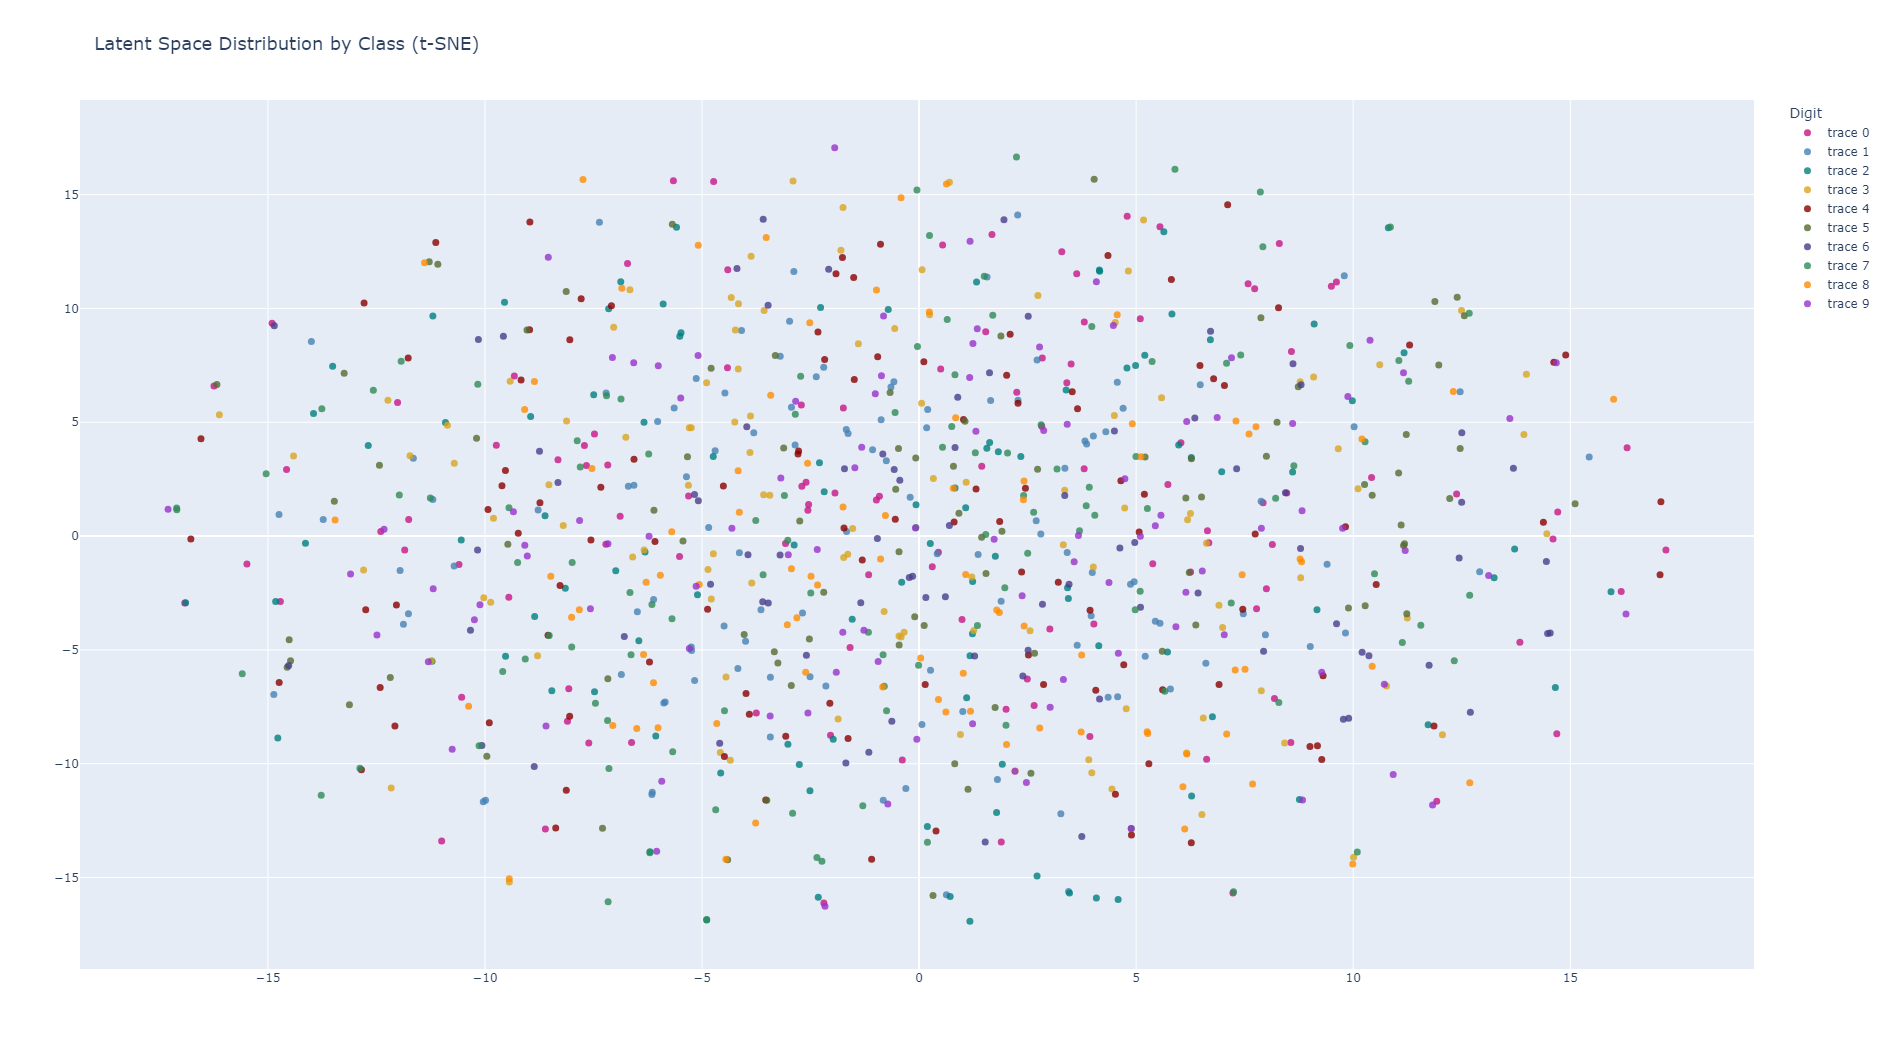
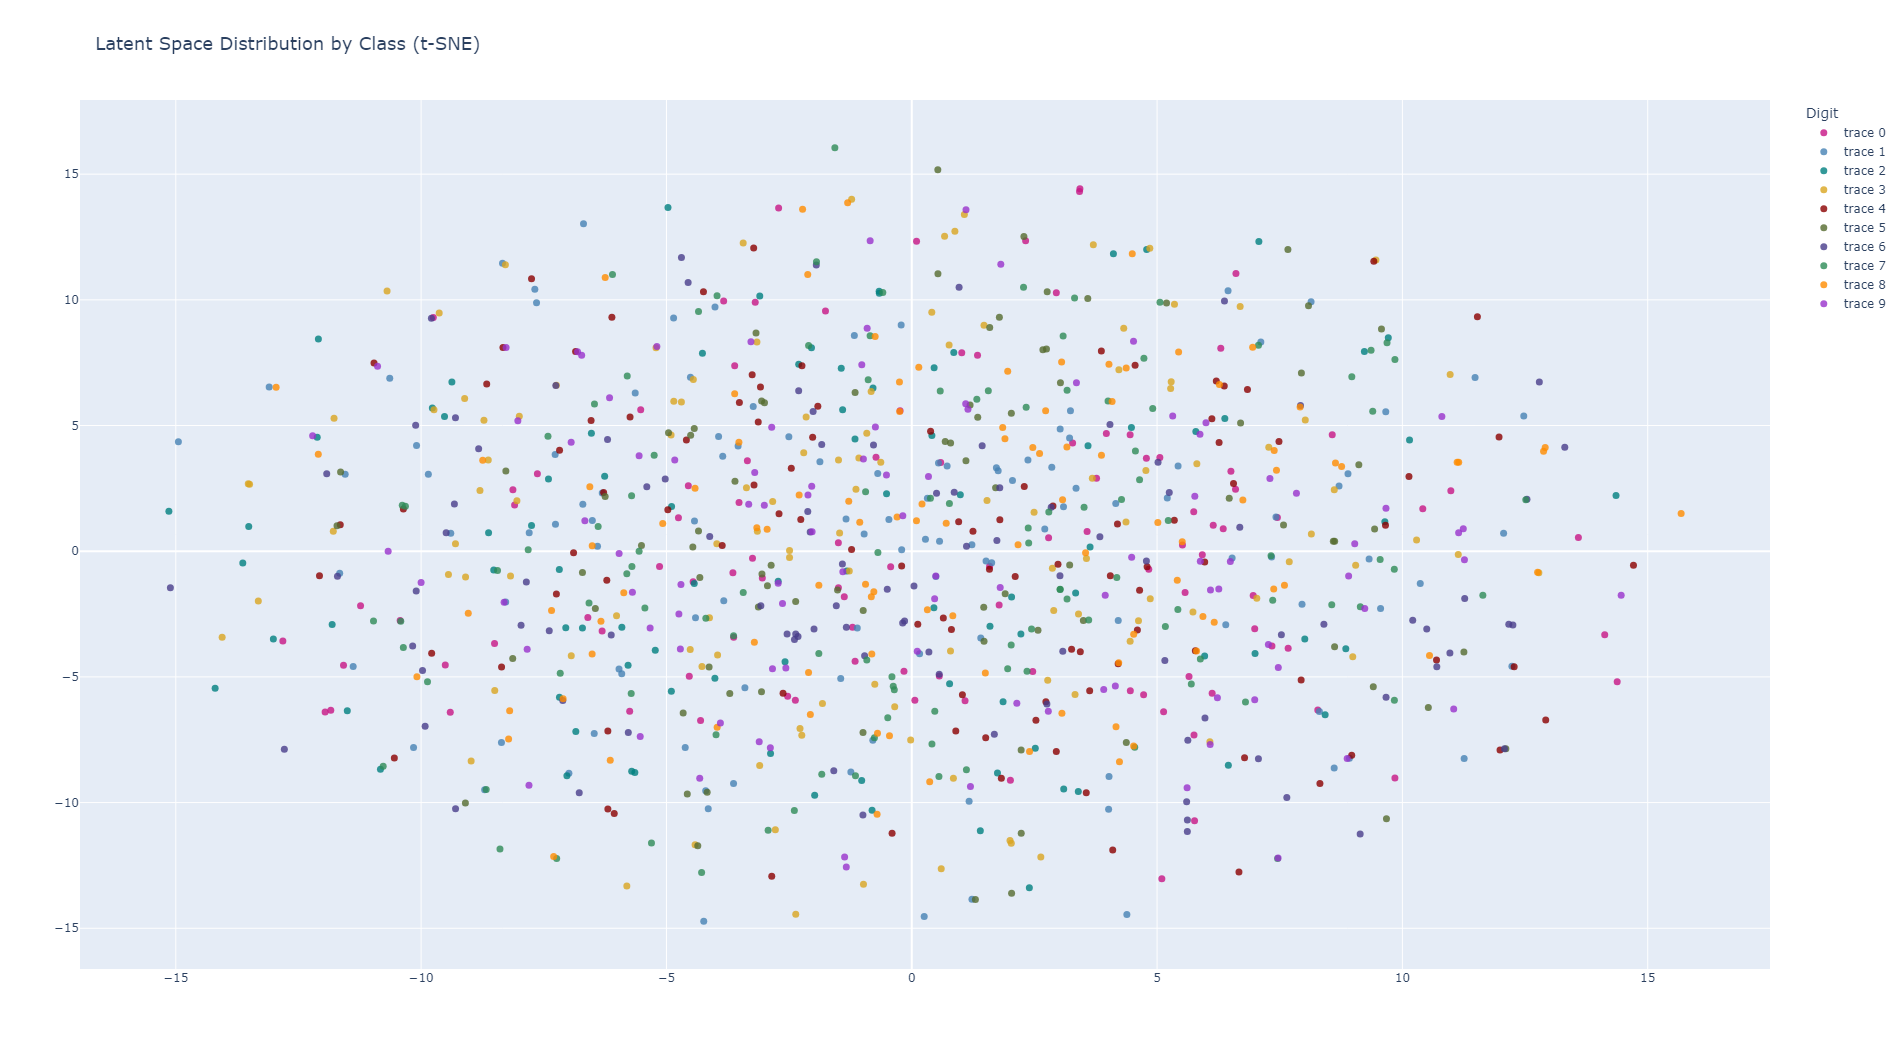
update to AE architectures

diff --git a/paper/paper.md b/paper/paper.md
@@ -24,7 +24,7 @@ Consider a scenario where two researchers, Researcher 1 and Researcher 2, collab
 Using LGC, Researcher 1 can compress their dataset $D$ into a compressed representation $D'$. This compressed representation can be transmitted over the network to Researcher 2 with minimal bandwidth overhead. Researcher 2 can then decompress $D'$ and use it to train their model $M'$, with the additional benefit that only a similar distribution to the original, but not the exact original data points, can be reconstructed.
 
 
-Our contribution is that we implement several variants of LGC with different autoencoder architectures (vanilla AE, VAE, contrastive) and compare these approaches against a baseline submodular maximization approach using gradient space K-Medoids for coreset selection. We discover a trade-off between compression factor and classifier accuracy and integrate our empirical findings within the broader Information Bottleneck (IB) theoretical framework.
+Our contribution is that we implement several variants of LGC with different autoencoder architectures (vanilla AE, VAE, conditional VAE, with and without contrastive learning) and compare these approaches against a baseline submodular maximization approach using gradient space K-Medoids for coreset selection. We discover a trade-off between compression factor and classifier accuracy and integrate our empirical findings within the broader Information Bottleneck (IB) theoretical framework.
 
 ## 2. Related Work
 
@@ -59,7 +59,7 @@ The vanilla and variant autoencoder architectures that were experimented with fo
 
 - **Vanilla Autoencoder:**
   - The vanilla autoencoder is the baseline version of autoencoder that consists of the basic encoder and decoder components that respectively transform the higher-dimensional input images into lower-dimensional representations. Starting with the MNIST dataset, which are 28 by 28 greyscale (single channel dimension) images, the encoder flattens the input into a 784 dimensional vector and then runs the vector through two dimensional reducing linear layers with rectified linear unit (ReLU) activation functions to transform the image into a 64 dimension latent space vector. The decoder reverses the process by taking in the 64 dimensional latent space vectors and dimensionally increases the image back to its 784 dimensional vector before being reshaped back to its 28 by 28 pixel image.
-  - The mean squared error (MSE) reconstruction loss is used to train the model such that the averaged squared errors between the reconstructed image and the original image is minimized.
+  - The mean squared error (MSE) reconstruction loss is used to train the model such that the averaged squared errors between the reconstructed image and the original image is minimized. For the autoencoder this is the only loss function that is being minimized.
   $$MSE = \frac{1}{n}\sum_{i=1}^{n} (y_i - \hat{y_i})^2$$
   - t-Distributed Stochastic Neighbor Embedding (tSNE) is a dimensional reduction technique that attempts to preserve higher dimensional structure in a lower dimension typically for visualization. The tSNE plot below is a 2-dimensional visualization of the 64-dimensional latent vectors of the 10 classes of the MNIST dataset color-coded by class. It can seen that the encoder is transforming examples of the same class in roughly similar locations in latent space, while placing examples from different classes in different locations in latent space. This plot gives the intution of the latent encodings of different classes that the GMM is attempting to decompose into multiple gaussian distributions.
 
@@ -67,9 +67,8 @@ The vanilla and variant autoencoder architectures that were experimented with fo
 
 - **Variational Autoencoder (VAE)**
   - The variational autoencoder (VAE) is a probabilistic extension of the vanilla autoencoder (AE) that replaces the determinstic functionality of the encoder and decoder of an AE with probability distributions. The AE compresses a single image into a latent representation, and then reconstructs an image from that latent. The VAE takes a single image and learns a continuous probability distribution for its latent representation. This probability distribution is modeled as a normal distribution characterized by means and covariances with dimensions that of the latent dimension. Two neural networks comprise the encoder, where one learns how to represent the means of input images and the other learns how to represent the covariances of the input images. Knowing the mean and covariance of a normal distribution allows the distribution to be known entirely, so when an image is encoded by its means and covariances, it is encoded as a latent space probability distribution. To decode the image from its latent, a random sample can be drawn from the distribution that has mean and covariance determined by the neural networks applied to that image. The sample will then get passed through two more sets of neural networks that will map the latent into normal distributions of what the images look like. Similar to the encoder, the decoder is comprised of two neural networks, one which takes the sampled latent representation and determines its means in image space, and the other which determines its covariances in image space. These determined means and covariances describe the image space probability distribution of the latent, from which a random sample can be drawn to return a reconstructed image.
-  - The loss function for the VAE involves defining an Evidence Lower Bound (ELBO) that allows for the probabilistic terms of the image space distribution to be defined as a Kullback-Leibler (KL) divergence. Because the image space distribution is intractable and unable to be written down, it needs to be approximated by the the latent space distribution, such that minimizing the KL divergence term tightens the ELBO, which allows it to more closely approximate the log likelihood, which is equivalent to minimizing the mean squared error of the reconstructed image. A trick is needed to back propagate through the sampling operation, called the Reparameterization trick, which allows for a random sampling of noise from a unit gaussian to be multiplied by the covariance and added to the mean of the determined latent probability distribution. This allows for the sampling operation to be performed while introducing the arithmetic operations into the computational graph needed to compute gradients through the neural networks. Below is the KL divergence term that measures the difference between the approximate posterior $q(z|x)$, which is the conditional distribution of the latents z given an image x, and the prior $p(z)$, which is the assumed unit Gaussian distribution over latents z prior to seeing any data. $$KL(q(z|x)||p(z)) = \int{q(z|x)log\frac{q(z|x)}{p(z)}dz}$$ When the approximate posterior $q(z|x)$ is parameterized as a Guassian distribution, $\mathcal{N}(\mu_\phi, \Sigma_\phi)$ with the mean and covariances determined by the encoder, the KL divergence can be represented by the closed-form solution: $$KL(q(z|x)||p(z)) = \frac{1}{2}\sum_{i=1}^d(\Sigma_i + \mu_i^2 - 1 - log\Sigma_i)$$
-  - Below is the tSNE plot that shows the encoder representing the images of every class as a normal gaussian distribution, where every image is encoded to have its own unique latent z values. The z values for any image are continuous and can take on any value in latent space, and are defined by the mean and covariances learned for that image by the encoder. The scattered nature of the latents of different classes is the result of the KL divergence term pulling all the latents given an image, $q(z|x)$, closer to the assumed unit Gaussian distribution, $p(z)$.
-  ![w:500 center](../pics/VAE/vae_tsne2.png)
+  - The loss function for the VAE involves defining an Evidence Lower Bound (ELBO) that allows for the probabilistic terms of the image space distribution to be defined as a Kullback-Leibler (KL) divergence. Because the image space distribution is intractable and unable to be written down, it needs to be approximated by the the latent space distribution, such that minimizing the KL divergence term tightens the ELBO, which allows it to more closely approximate the log likelihood, which is equivalent to minimizing the mean squared error of the reconstructed image. This allows an explicit loss function to be derived which can be optimized. A trick is needed to back propagate through the sampling operation, called the Reparameterization trick, which allows for a random sampling of noise from a unit Gaussian to be multiplied by the covariance and added to the mean of the determined latent probability distribution. This allows for the sampling operation to be performed while introducing arithmetic operations into the computational graph needed to compute gradients through the neural networks. Below is the KL divergence term that measures the difference between the approximate posterior $q(z|x)$, which is the conditional distribution of the latents z given an image x, and the prior $p(z)$, which is the assumed unit Gaussian distribution over latents z prior to seeing any data. $$KL(q(z|x)||p(z)) = \int{q(z|x)log\frac{q(z|x)}{p(z)}dz}$$ When the approximate posterior $q(z|x)$ is parameterized as a Guassian distribution, $\mathcal{N}(\mu_\phi, \Sigma_\phi)$ with the mean and covariances determined by the encoder, the KL divergence can be represented by the closed-form solution: $$KL(q(z|x)||p(z)) = \frac{1}{2}\sum_{i=1}^d(\Sigma_i + \mu_i^2 - 1 - log\Sigma_i)$$
+  - Below is the tSNE plot that shows the encoder representing the images of every class as a normal Gaussian distribution, where every image is encoded to have its own unique latent z values. The z values for any image are continuous and can take on any value in latent space, and are defined by the mean and covariances learned for that image by the encoder. The scattered nature of the latents of different classes is the result of the KL divergence term pulling all the latents given an image, $q(z|x)$, closer to the assumed unit Gaussian distribution, $p(z)$. ![w:500 center](../pics/VAE/vae_tsne2.png). This scattered distribution of latents across all classes makes it difficult to sample an image reconstruction from a desired class. Sampling random unit Gaussian latent samples results in random reconstruction of images, as seen below, where every reconstructed image started from a random unit Gaussian latent sample. ![w:500 center](../pics/VAE/vae_sampled.png)
 
 - **Vanilla Autoencoder with Contrastive Learning:**
   - Contrastive learning is a technique that can be applied to supervised or self-supervised machine learning. In the self-supervised case, contrastive learning works to pull augmentations of the same example closer together, as well as similar examples with similar augmentations closer together, while pushing dissimilar examples with dissimilar augmentations away, such that different clusterings of examples can be labeled as classes. Supervised contrastive learning has the advantage of knowing the labels of the examples so that it can effectively pull examples of the same class closer together, while pushing examples of other classes away. The supervised contrastive loss term is defined as below: $$\mathcal{L}_{SCL} = \frac{1}{|I|} \sum_{i \in I} \frac{-1}{|P(i)|} \sum_{p \in P(i)} \log \frac{\exp(\mathbf{z}_i \cdot \mathbf{z}_p / \tau)}{\sum_{a \in A(i)} \exp(\mathbf{z}_i \cdot \mathbf{z}_a / \tau)}$$
@@ -85,6 +84,11 @@ The vanilla and variant autoencoder architectures that were experimented with fo
 - **Variational Autoencoder with Contrastive Learning:**
   - Taking the VAE previously described and adding a contrastive loss term produces the tSNE plot below. This VAE with contrastive learning now has three loss terms that are guiding the gradient computations: one for cross entropy image recontrustion, a second for KL divergence, and a third for contrastive learning. It can be seen the interplay of the KL divergence term and the contrastive loss term, as the KL divergence term pulls all examples closer to a unit Gaussian distribution, while the contrastive loss term pulls examples within classes towards each other.
   ![w:500 center](../pics/contrastive_VAE/vae_tsne_contrast2.png)
+
+- **Conditional Variational Autoencoder:**
+  - The conditional variational autoencoder (CVAE) is a variant of the VAE that incorporates conditioning information into the encoding and decoding steps. This conditioning information is implemented as a one-hot encoding of the images' labels. This one-hot encoding is appended to the flattened image input prior to the encoder, as well as appended to the latent encodings prior to the decoder. This provides conditioning information to the training data for the encoder and decoder to learn associations between examples within a class and their one-hot encodings. This allows for conditioning the random sampling of a latent to reconstruct an image from a desired class. The latent distributions do not show obvious clustering around one-hot encoded groupings, so the tSNE plot for the CVAE looks similar to the VAE, shown below:
+  ![w:500 center](../pics/conditional_VAE/cvae_tsne2.png) However, the one-hot information is encoded in the latent data such that appending the one-hot encodings to a random sampling of unit Gaussian latent samples allows for images from a desired class to be reconstructed. Below are conditionally-sampled reconstructions from each class, showing that the one-hot encodings allow for the model to learn coded locations in latent space associated with each class. ![w:500 center](../pics/conditional_VAE/cvae_sampled.png)
+
 
 Next, the latent vectors obtained from the encoder part of the autoencoder are used to fit a GMM. The GMM models the distribution of latent representations as a mixture of Gaussian components according to the following probability density function:
 
@@ -171,7 +175,7 @@ https://arxiv.org/abs/1803.00942
 
 ![w:700 center](../pics/general/compression_vs_accuracy.png)
 
-We evaluated the performance of our Latent Gaussian Compression (LGC) approach against several baseline methods, including GZIP compression, random subsetting, gradient-based subset selection, and coreset selection with k-medoids. We experimented with various autoencoder architectures (vanilla AE, VAE, contrastive VAE, and contrastive VAE with convex hull boundary) within the LGC framework. Our results, illustrated in the figure above, demonstrate a compelling trade-off between compression ratio and test accuracy. 
+We evaluated the performance of our Latent Gaussian Compression (LGC) approach against several baseline methods, including GZIP compression, random subsetting, gradient-based subset selection, and coreset selection with k-medoids. We experimented with various autoencoder architectures (vanilla AE, contrastive AE, VAE, conditional VAE, contrastive VAE, and contrastive VAE with convex hull boundary) within the LGC framework. Our results, illustrated in the figure above, demonstrate a compelling trade-off between compression ratio and test accuracy. 
 
 LGC consistently outperformed baseline methods, especially at higher compression ratios. While coreset selection with k-medoids offered reasonable performance, LGC generally provided superior accuracy, particularly at higher compression levels. 
 
